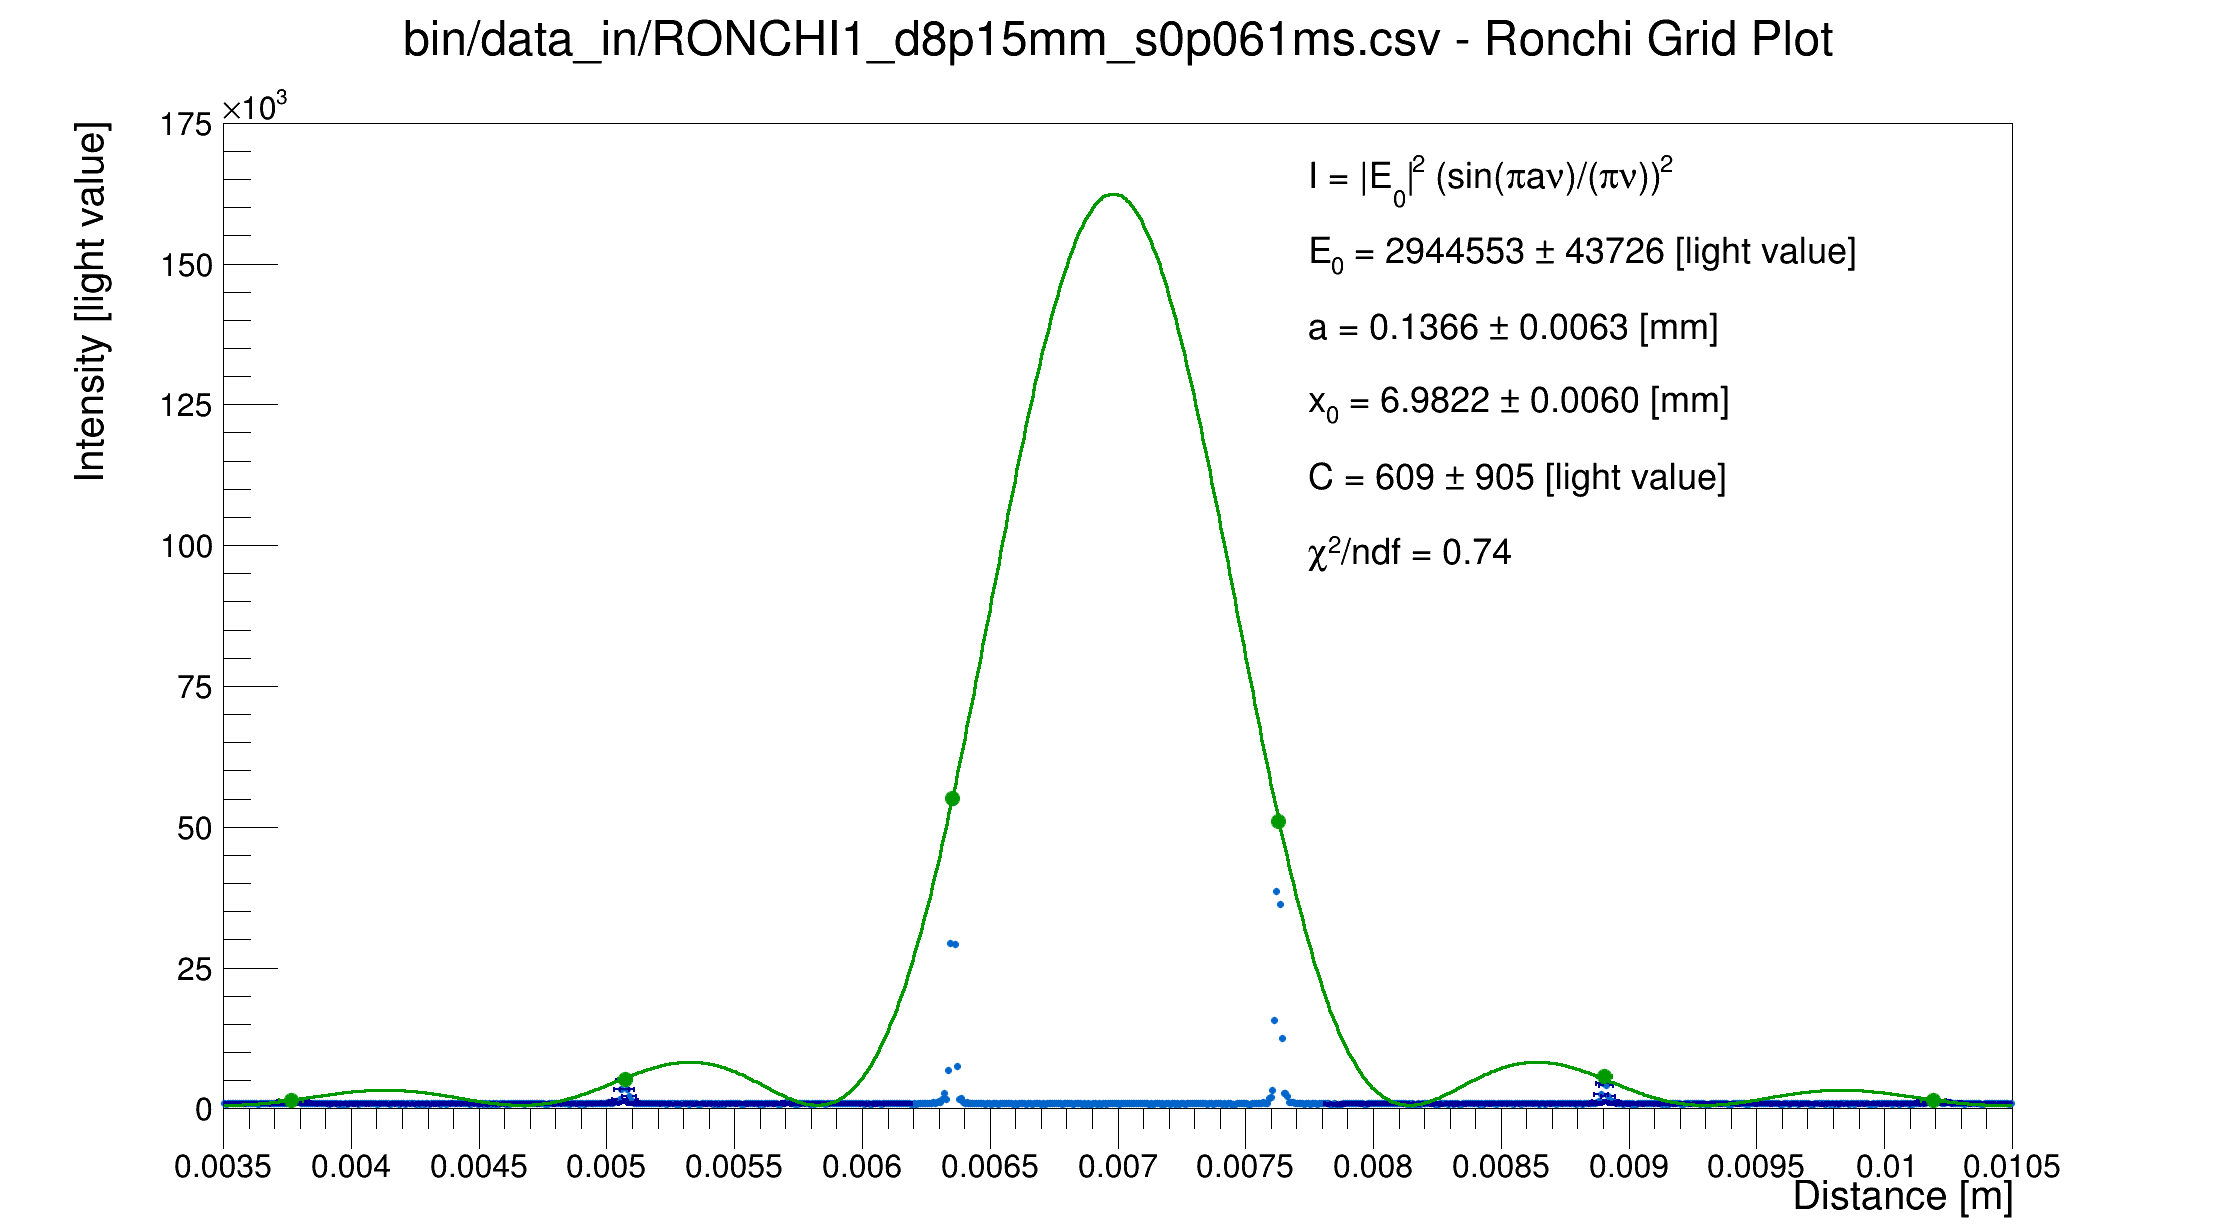
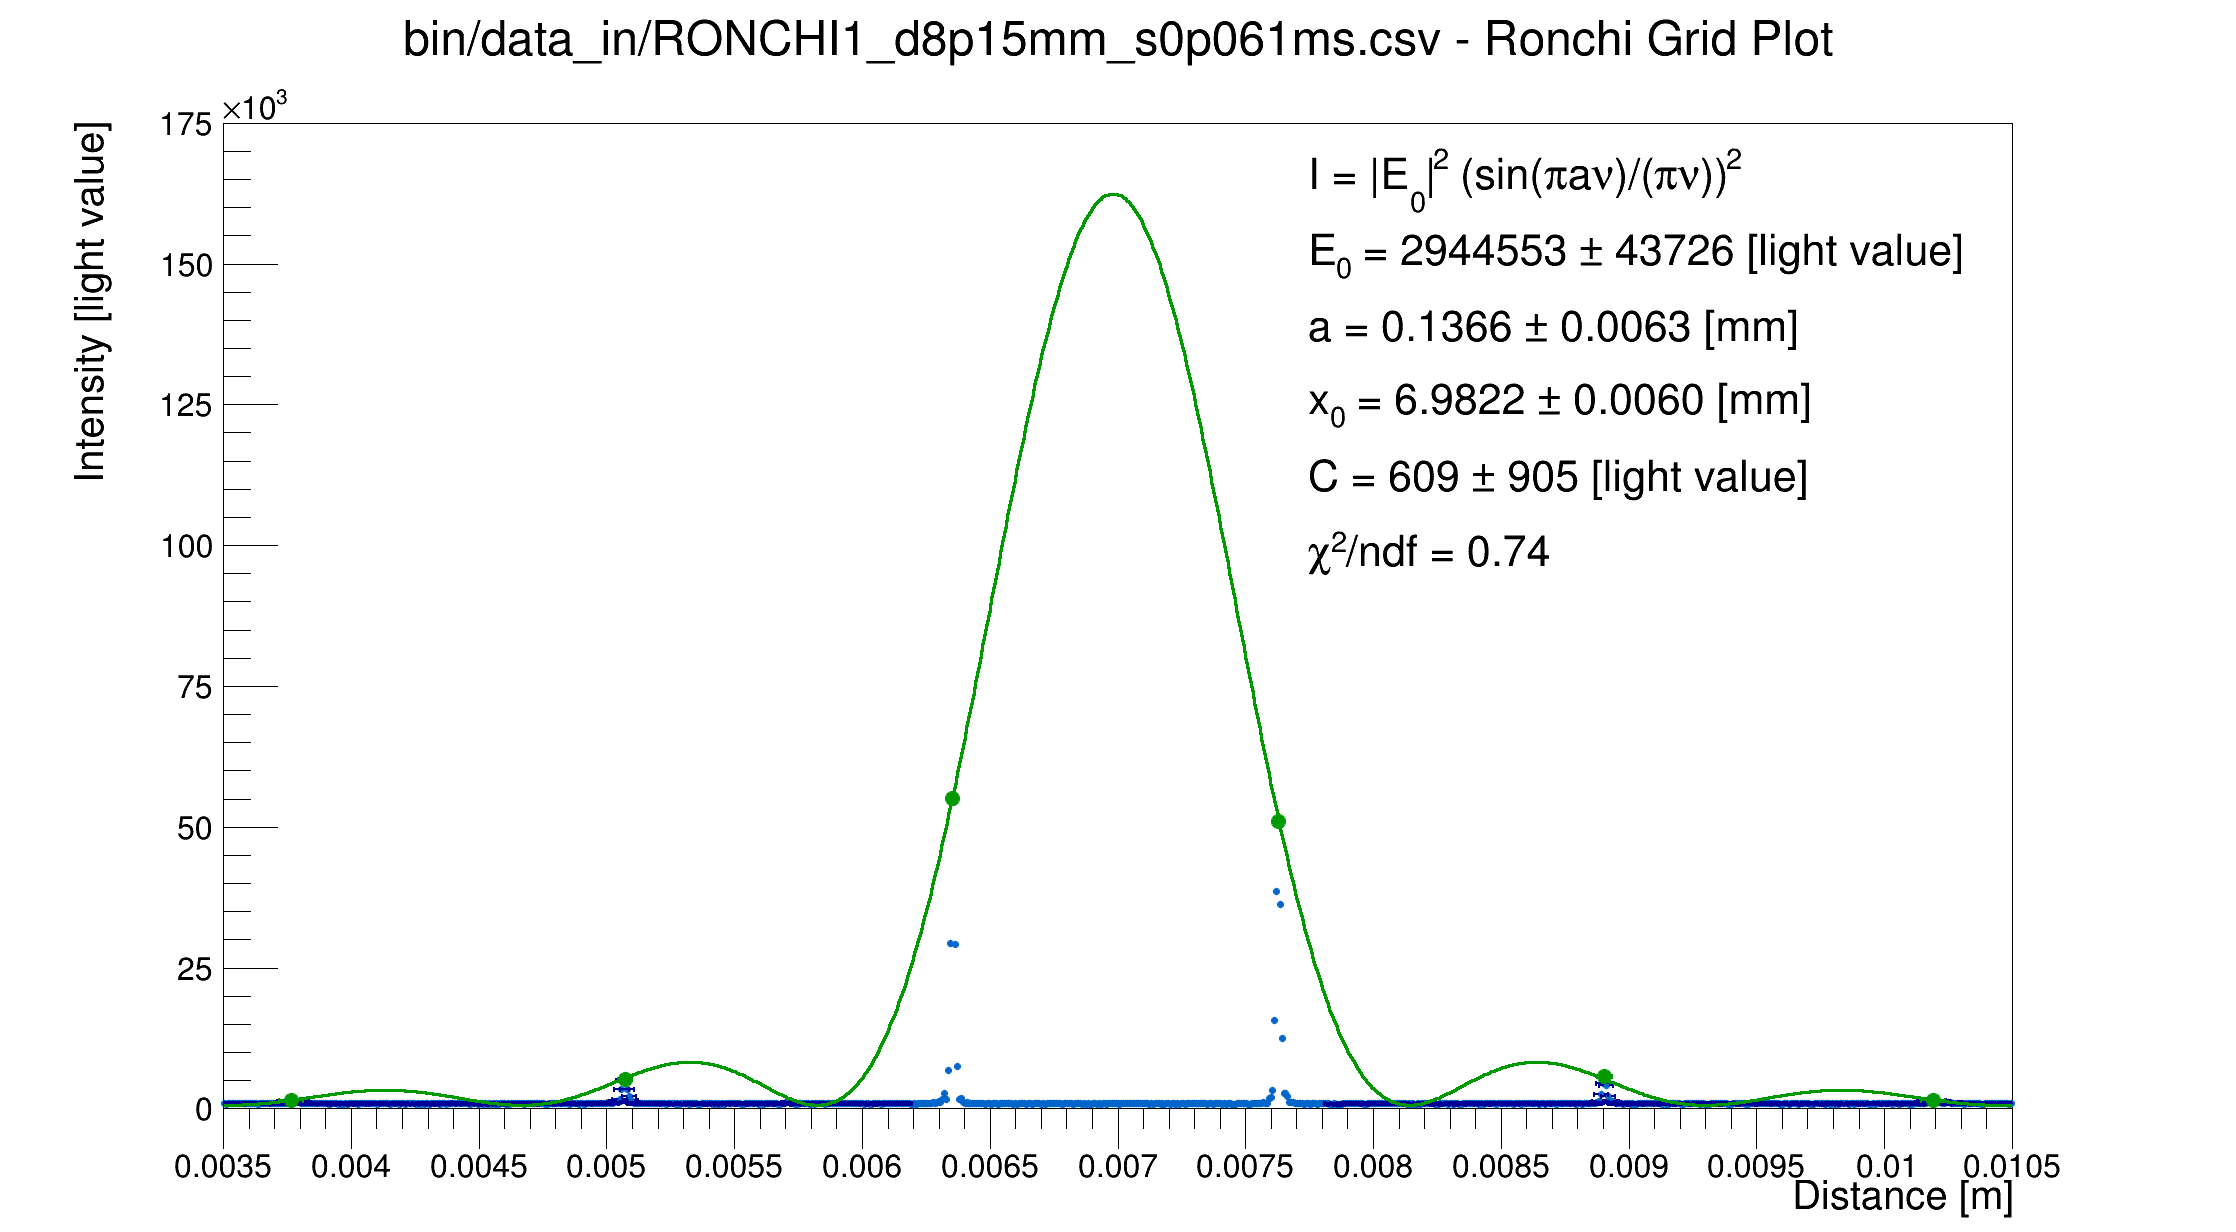
pain

diff --git a/main/ronchi_envelope.cpp b/main/ronchi_envelope.cpp
@@ -27,29 +27,29 @@ int main(){
 	//                      INPUT PARAMETERS
 	//---------------------------------------------------------------
 	// Data file info
-	std::string dataFile = "bin/data_in/RONCHI1_d8p15mm_s0p061ms.csv";				// Input data file, csv
-	std::string resultFile = "bin/data_out/RONCHI1_d8p15mm_s0p061ms_ENVELOPE.png";	// Output fata file, png
+	std::string dataFile = "bin/data_in/TEM1_ROW_s13p384ms.csv";				// Input data file, csv
+	std::string resultFile = "bin/data_out/TEM1_ROW_s13p384ms_ENVELOPE.png";	// Output fata file, png
 	// Physical System
 	double pixelToDist = ((3.69e-6)/0.5055);					// Conversion constant from pixels to real life distance, in metres 
 	double pixelToDist_err = (3.69e-6)*0.0073/(0.5055*0.5055);	// Error of the conversion factor, in metres
-	double pixelMeasureOffset = 0.007;							// Where is the center of the measure, to propagate error? in metres
+	double pixelMeasureOffset = 6.9e-3;							// Where is the center of the measure, to propagate error? in metres
 	double laser_wavelength = 633e-9;							// Wavelength of the light, in metres
 	double focal_length = 250e-3;								// Focal length of the fourier transform lens, in metres
 	double lambdaf = laser_wavelength*focal_length;
 	// Display Settings
-	int maxLightValue = 175000;									// Y Axis maximum value
-	double minDistance = 0.0035;								// X Axis minimum value
-	double maxDistance = 0.0105;								// X Axis maximum value
+	int maxLightValue = 150000;									// Y Axis maximum value
+	double minDistance = 0.0;										// X Axis minimum value
+	double maxDistance = 0.014;								// X Axis maximum value
 	int xNdiv = -514;											// Number of divisions in x axis, root notation
-	int yNdiv = -507;											// Number of divisions in y axis, root notation
+	int yNdiv = -506;											// Number of divisions in y axis, root notation
 	int fNpoints = 1000;										// Number of points used in the display of the fitting function.
-	float textLocation[4] = {0.725,0.525,0.98,0.98};			// Relative coordinates of the text, {x1rel,y1rel,x2rel,y2rel}
+	float textLocation[4] = {0.65,0.525,0.98,0.98};			// Relative coordinates of the text, {x1rel,y1rel,x2rel,y2rel}
 	int imageScaling = 140;
 	// Fit initial parameters	
-	double fit_E_0 = 60000*pixelToDist/lambdaf;
-	double fit_x0 = 960*pixelToDist;
+	double fit_E_0 = 6792772;
+	double fit_x0 = 6.9e-3;
 	double fit_C = 1000;
-	double fit_a = 1.3e-4;
+	double fit_a = 0.038e-3;
 
 	//---------------------------------------------------------------
 	//                           ALGORITHM
@@ -115,7 +115,7 @@ int main(){
     g->Draw("AP");
 
 	// New Plot and Fit
-	std::vector<double> xMaxs = {516,695,870,1045,1220,1396};
+	std::vector<double> xMaxs = {28,227,596,771,1120,1297,1870,1672};
 	std::vector<double> yMaxs, xMaxsErr, yMaxsErr;
 	for (int i = 0; i < xMaxs.size(); i++){
 		yMaxs.push_back(Y[xMaxs[i]]);
@@ -138,6 +138,7 @@ int main(){
 	
 	f->SetParameters(fit_E_0, fit_a, fit_x0, fit_C, lambdaf);	
 	f->FixParameter(4,lambdaf);
+	f->SetParLimits(3, 900, 900000000);
     f->SetNpx(fNpoints);
 
     f->SetLineColor(kGreen+2);
@@ -146,21 +147,21 @@ int main(){
 
     TPaveText* pt = new TPaveText(textLocation[0]*maxDistance, textLocation[1]*maxLightValue, textLocation[2]*maxDistance, textLocation[3]*maxLightValue, "user");
 
-    pt->SetTextSize(0.032);
+    pt->SetTextSize(0.038);
     pt->SetFillColor(0);
     pt->SetTextAlign(12);
     pt->SetTextFont(42);
 
     pt->AddText(Form("I = |E_{0}|^{2} (sin(#pia#nu)/(#pi#nu))^{2}"));
     pt->AddText(Form("E_{0} = %.0f %c %.0f [light value]", f->GetParameter(0), 0xB1, f->GetParError(0)));
-    pt->AddText(Form("a = %.4f %c %.4f [mm]", f->GetParameter(1)*1e3, 0xB1, f->GetParError(1)*1e3));
-	pt->AddText(Form("x_{0} = %.4f %c %.4f [mm]", f->GetParameter(2)*1e3, 0xB1, f->GetParError(2)*1e3));
-	pt->AddText(Form("C = %.0f %c %.0f [light value]", f->GetParameter(3), 0xB1, f->GetParError(3)));
+    pt->AddText(Form("a = %.5f %c %.5f [mm]", f->GetParameter(1)*1e3, 0xB1, f->GetParError(1)*1e3));
+	pt->AddText(Form("x_{0} = %.3f %c %.3f [mm]", f->GetParameter(2)*1e3, 0xB1, f->GetParError(2)*1e3));
+	pt->AddText(Form("C = %.0f %c %.3f [light value]", f->GetParameter(3), 0xB1, f->GetParError(3)));
 
     pt->AddText(Form("#chi^{2}/ndf = %.2f", float(f->GetChisquare()/f->GetNDF()) ));
      
     g2->Draw("P same");
-	//f->Draw("same");
+	f->Draw("same");
     pt->Draw("same");
 
     C->Update();

diff --git a/main/ronchi_fitter.cpp b/main/ronchi_fitter.cpp
@@ -58,7 +58,7 @@ int main(){
 	int xNdiv = -512;											// Number of divisions in x axis, root notation
 	int yNdiv = -610;											// Number of divisions in y axis, root notation
 	int fNpoints = 1000;										// Number of points used in the display of the fitting function.
-	float textLocation[4] = {0.53,0.45,0.95,0.95};			// Relative coordinates of the text, {x1rel,y1rel,x2rel,y2rel}
+	float textLocation[4] = {0.55,0.45,0.95,0.95};			// Relative coordinates of the text, {x1rel,y1rel,x2rel,y2rel}
 	int imageScaling = 140;
 
 	//---------------------------------------------------------------
